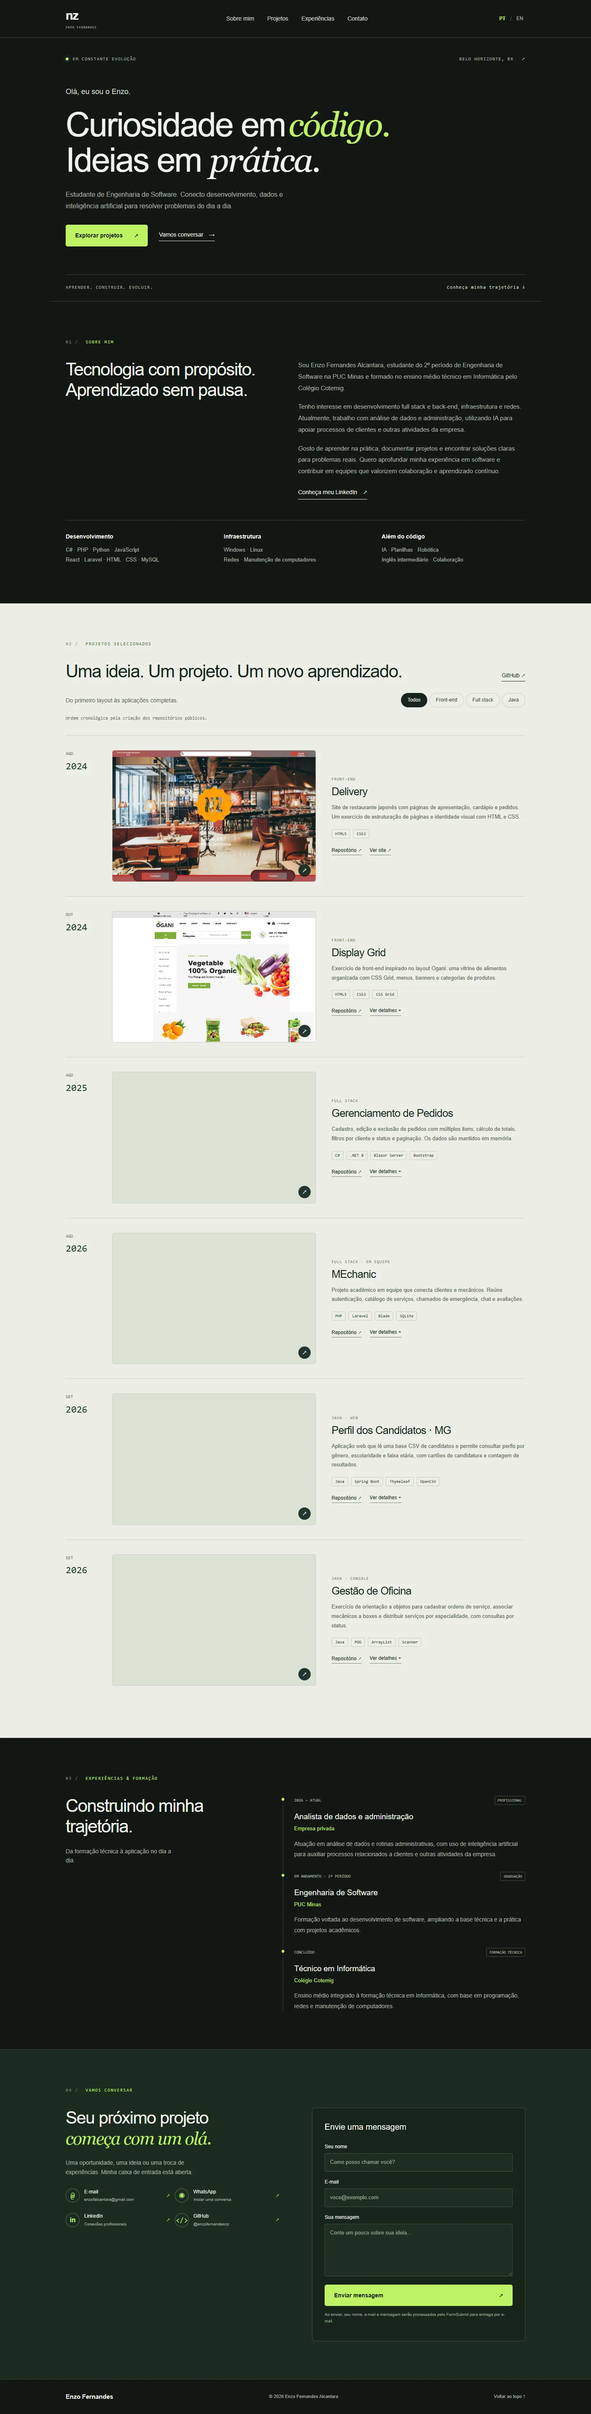
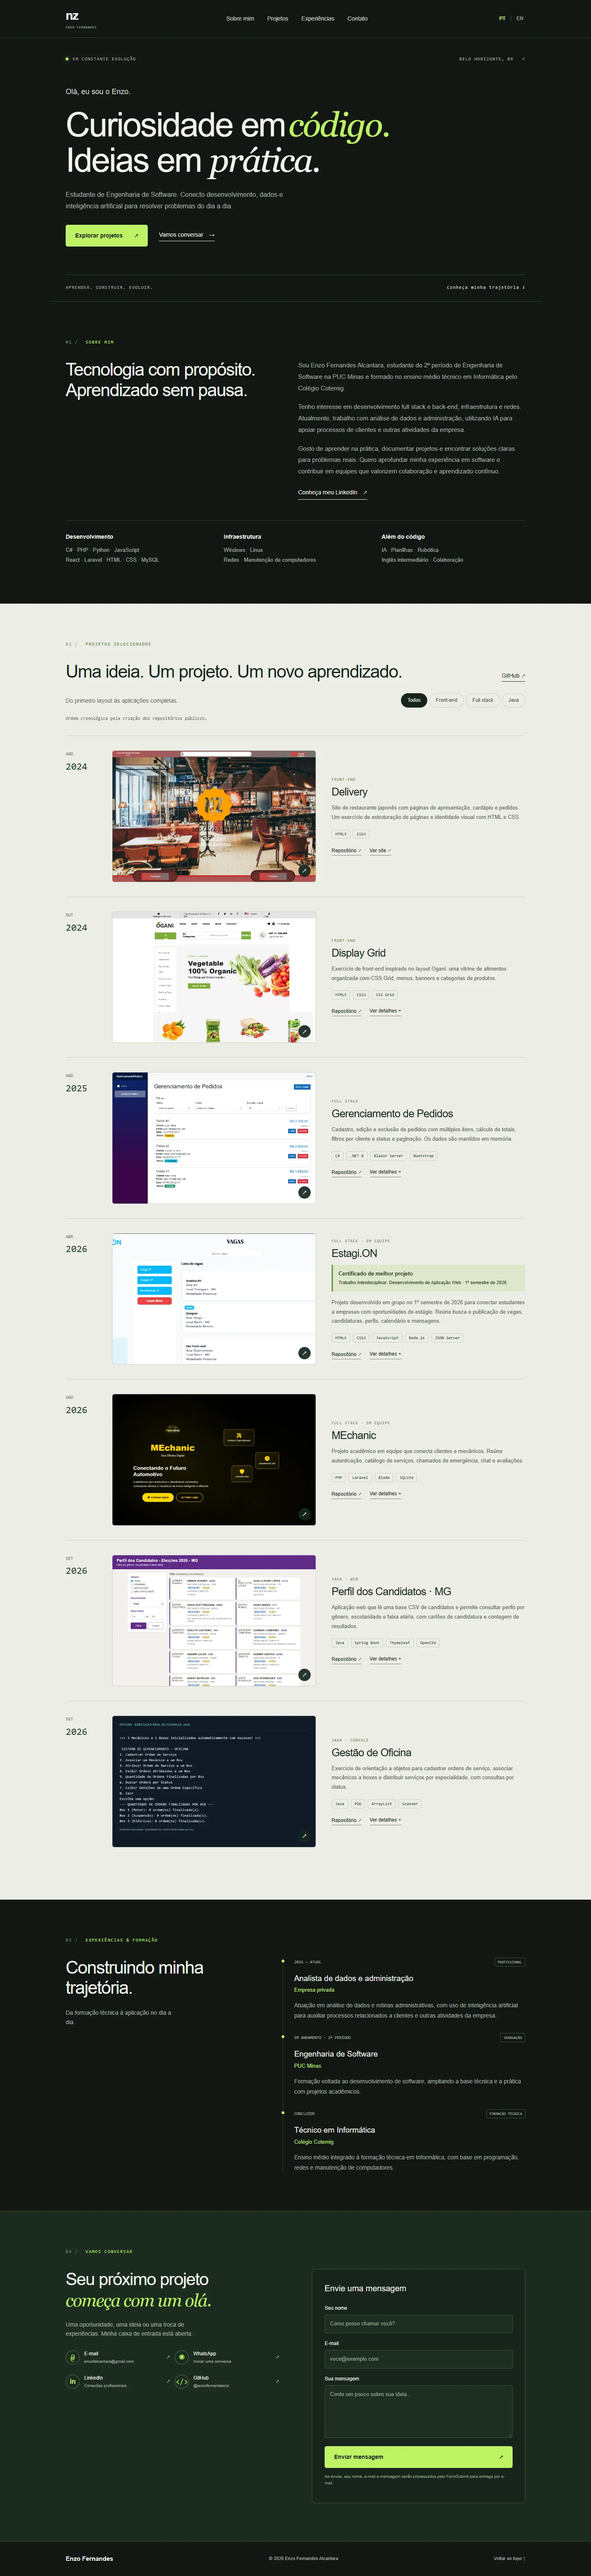
feat: adicionar Estagi.ON e destaque de melhor projeto interdisciplinar

diff --git a/dist/app.js b/dist/app.js
@@ -1,4 +1,5 @@
 const projects = [
+  {"id": "estagi-on", "date": "2026-04-09", "name": "Estagi.ON", "category": "fullstack", "team": true, "tags": ["HTML5", "CSS3", "JavaScript", "Node.js", "JSON Server"], "image": "assets/estagi-on.png", "repo": "https://github.com/ICEI-PUC-Minas-PMGES-TI/pmg-es-2026-1-ti1-0427200-estagi-on", "pt": "Projeto desenvolvido em grupo no 1º semestre de 2026 para conectar estudantes a empresas com oportunidades de estágio. Reúne busca e publicação de vagas, candidaturas, perfis, calendário e mensagens.", "en": "A team project developed in the first semester of 2026 to connect students with companies offering internships. Includes job search and posting, applications, profiles, a calendar and messaging.", "awardPT": "Certificado de melhor projeto", "awardEN": "Best Project Certificate", "awardDetailPT": "Trabalho Interdisciplinar: Desenvolvimento de Aplicação Web · 1º semestre de 2026", "awardDetailEN": "Interdisciplinary Project: Web Application Development · First semester of 2026", "captionPT": "Tela de busca e listagem de vagas do Estagi.ON, publicada na documentação original da equipe. Projeto acadêmico em grupo.", "captionEN": "Estagi.ON job search and listing screen, published in the team’s original documentation. Academic team project."},
   {id:'delivery',date:'2024-08-13',name:'Delivery',category:'frontend',tags:['HTML5','CSS3'],image:'assets/delivery.webp',repo:'https://github.com/enzofernandesnz/delivery',demo:'https://enzofernandesnz.github.io/delivery/',pt:'Site de restaurante japonês com páginas de apresentação, cardápio e pedidos. Um exercício de estruturação de páginas e identidade visual com HTML e CSS.',en:'A Japanese restaurant website with presentation, menu and order pages. An exercise in page structure and visual identity using HTML and CSS.',captionPT:'Captura real da página inicial do projeto Delivery.',captionEN:'Actual screenshot of the Delivery home page.'},
   {id:'grid',date:'2024-10-28',name:'Display Grid',category:'frontend',tags:['HTML5','CSS3','CSS Grid'],image:'assets/display-grid.webp',repo:'https://github.com/enzofernandesnz/Display-grid',pt:'Exercício de front-end inspirado no layout Ogani: uma vitrine de alimentos organizada com CSS Grid, menus, banners e categorias de produtos.',en:'A front-end exercise inspired by the Ogani layout: a food storefront organized with CSS Grid, navigation, banners and product categories.',captionPT:'Captura do HTML original executado localmente. Exercício inspirado no template Ogani.',captionEN:'Screenshot of the original HTML running locally. Exercise inspired by the Ogani template.'},
   {id:'mechanic',date:'2026-08-06',name:'MEchanic',category:'fullstack',tags:['PHP','Laravel','Blade','SQLite'],image:'assets/mechanic.webp',repo:'https://github.com/enzofernandesnz/MEchanic-dev',pt:'Projeto acadêmico em equipe que conecta clientes e mecânicos. Reúne autenticação, catálogo de serviços, chamados de emergência, chat e avaliações.',en:'A team academic project connecting customers and mechanics. It includes authentication, a service catalog, emergency requests, chat and reviews.',captionPT:'Captura real da página inicial do MEchanic, executado localmente em PHP e Laravel.',captionEN:'Actual screenshot of MEchanic running locally with PHP and Laravel.'}
@@ -17,7 +18,8 @@ function renderProjects(){
     const article=document.createElement('article');article.className='project';
     const date=new Date(project.date+'T12:00:00');
     const month=date.toLocaleDateString(language==='pt'?'pt-BR':'en-US',{month:'short'}).replace('.','').toUpperCase();
-    article.innerHTML=`<time class="project-date" datetime="${project.date}">${month}<strong>${date.getFullYear()}</strong></time><button type="button" class="project-visual ${project.isLogo?'mechanic-visual':''}" aria-label="${text('Ampliar imagem de','Enlarge image of')} ${project.name}"><img src="${project.image}" alt="${project.isLogo?text('Logotipo do projeto MEchanic','MEchanic project logo'):text('Captura da interface de ','Screenshot of ')+project.name}" loading="lazy" width="800" height="520">${project.isLogo?`<small>${text('PROJETO ACADÊMICO EM EQUIPE','TEAM ACADEMIC PROJECT')}</small>`:''}<span class="zoom-label" aria-hidden="true">↗</span></button><div class="project-info"><div class="project-kind">${project.category==='frontend'?'FRONT-END':(project.id==='mechanic'?'FULL STACK · '+text('EM EQUIPE','TEAM PROJECT'):'FULL STACK')}</div><h3>${project.name}</h3><p>${project[language]}</p><div class="tags">${project.tags.map(tag=>`<span>${tag}</span>`).join('')}</div><div class="project-links"><a href="${project.repo}" target="_blank" rel="noopener noreferrer">${text('Repositório','Repository')} ↗</a>${project.demo?`<a href="${project.demo}" target="_blank" rel="noopener noreferrer">${text('Ver site','Live site')} ↗</a>`:`<button type="button" class="details">${text('Ver detalhes','View details')} +</button>`}</div></div>`;
+    article.innerHTML=`<time class="project-date" datetime="${project.date}">${month}<strong>${date.getFullYear()}</strong></time><button type="button" class="project-visual ${project.isLogo?'mechanic-visual':''}" aria-label="${text('Ampliar imagem de','Enlarge image of')} ${project.name}"><img src="${project.image}" alt="${project.isLogo?text('Logotipo do projeto MEchanic','MEchanic project logo'):text('Captura da interface de ','Screenshot of ')+project.name}" loading="lazy" width="800" height="520">${project.isLogo?`<small>${text('PROJETO ACADÊMICO EM EQUIPE','TEAM ACADEMIC PROJECT')}</small>`:''}<span class="zoom-label" aria-hidden="true">↗</span></button><div class="project-info"><div class="project-kind">${project.category==='frontend'?'FRONT-END':((project.team||project.id==='mechanic')?'FULL STACK · '+text('EM EQUIPE','TEAM PROJECT'):'FULL STACK')}</div><h3>${project.name}</h3><p>${project[language]}</p><div class="tags">${project.tags.map(tag=>`<span>${tag}</span>`).join('')}</div><div class="project-links"><a href="${project.repo}" target="_blank" rel="noopener noreferrer">${text('Repositório','Repository')} ↗</a>${project.demo?`<a href="${project.demo}" target="_blank" rel="noopener noreferrer">${text('Ver site','Live site')} ↗</a>`:`<button type="button" class="details">${text('Ver detalhes','View details')} +</button>`}</div></div>`;
+    if(project.awardPT){const award=document.createElement('div');award.className='project-award';const heading=document.createElement('strong');heading.textContent=text(project.awardPT,project.awardEN);const detail=document.createElement('span');detail.textContent=text(project.awardDetailPT,project.awardDetailEN);award.append(heading,detail);article.querySelector('.project-info h3').after(award);}
     if(!project.image){const visual=article.querySelector('.project-visual');visual.className='project-visual code-visual';visual.replaceChildren();const code=document.createElement('span');code.className='code-symbol';code.textContent=project.tags[0];const label=document.createElement('span');label.textContent=project.tags.slice(1).join(' / ');const hint=document.createElement('small');hint.textContent=text('EXPLORAR O PROJETO ↗','EXPLORE THE PROJECT ↗');visual.append(code,label,hint);visual.setAttribute('aria-label',text('Ver detalhes de ','View details of ')+project.name);}
     if(project.category==='java')article.querySelector('.project-kind').textContent=project.id==='oficina'?text('JAVA · CONSOLE','JAVA · CONSOLE'):'JAVA · WEB';
     article.querySelector('.project-visual').addEventListener('click',()=>openProject(project));

diff --git a/dist/style.css b/dist/style.css
@@ -11,3 +11,5 @@
 .brand-name{font-size:18px;letter-spacing:-.6px;font-weight:700;line-height:1.2}.brand-name span{display:block;font:8px Consolas,monospace;letter-spacing:1.2px;color:var(--muted);margin-top:6px}.footer-name{font-size:15px;font-weight:600}.hero-grid{grid-template-columns:1fr;padding-block:56px 68px}.hero h1{font-size:clamp(48px,6vw,82px);max-width:1000px}.hero h1 br:nth-of-type(1){display:none}.hero h1>.serif{font-size:1em}.hero-description{max-width:610px}.hero-copy .intro{margin-bottom:24px}@media(max-width:720px){.brand-name{font-size:16px}.brand-name span{font-size:7px;letter-spacing:.7px}.hero-grid{padding-block:38px}.hero h1{font-size:clamp(42px,9vw,60px)}.hero h1 br:nth-of-type(1){display:block}.footer-name{font-size:12px}}
 
 .brand-name{font-size:30px;font-weight:700;letter-spacing:-1.5px}.brand-name span{font-size:8px;letter-spacing:1px}.hero h1 .serif{margin-left:.1em}
+
+.project-award{display:grid;gap:4px;margin:12px 0 16px;padding:12px 14px;border-left:3px solid #698b36;background:#dde7cb;border-radius:0 6px 6px 0;color:#23351d}.project-award strong{font-size:13px;line-height:1.5}.project-award span{font-size:11px;line-height:1.6}

diff --git a/README.md b/README.md
@@ -190,11 +190,14 @@ Capturas completas: [Desktop](docs/desktop.webp) · [Celular](docs/mobile.webp).
 | 13/08/2024 | Delivery | HTML, CSS | [Repositório](https://github.com/enzofernandesnz/delivery) |
 | 28/10/2024 | Display Grid | HTML, CSS Grid | [Repositório](https://github.com/enzofernandesnz/Display-grid) |
 | 08/08/2025 | Gerenciamento de Pedidos | C#, .NET 8, Blazor Server, Bootstrap | [Repositório](https://github.com/enzofernandesnz/atv6_blazor) |
+| 09/04/2026 | Estagi.ON | HTML, CSS, JavaScript, Node.js, JSON Server | [Repositório](https://github.com/ICEI-PUC-Minas-PMGES-TI/pmg-es-2026-1-ti1-0427200-estagi-on) |
 | 06/08/2026 | MEchanic | PHP, Laravel, Blade, SQLite | [Repositório](https://github.com/enzofernandesnz/MEchanic-dev) |
 | 28/09/2026 | Perfil dos Candidatos — MG | Java, Spring Boot, Thymeleaf, OpenCSV | [Repositório](https://github.com/enzofernandesnz/Projeto-Candidatos-TSE-2) |
 | 28/09/2026 | Gestão de Oficina | Java, POO, ArrayList, Scanner | [Repositório](https://github.com/enzofernandesnz/prova1) |
 
-As descrições foram conferidas no código dos repositórios públicos. MEchanic é explicitamente apresentado como projeto em equipe. Display Grid é um exercício inspirado no layout Ogani. Repositórios de templates copiados por fork não foram apresentados como projetos próprios.
+As descrições foram conferidas no código dos repositórios públicos. Estagi.ON e MEchanic são explicitamente apresentados como projetos em equipe. Display Grid é um exercício inspirado no layout Ogani. Repositórios de templates copiados por fork não foram apresentados como projetos próprios.
+
+O Estagi.ON foi desenvolvido em grupo no 1º semestre de 2026. Enzo recebeu o certificado de melhor projeto de **Trabalho Interdisciplinar: Desenvolvimento de Aplicação Web**, conforme seu relato. A imagem do cartão é a [captura de listagem de vagas da documentação da equipe](https://github.com/ICEI-PUC-Minas-PMGES-TI/pmg-es-2026-1-ti1-0427200-estagi-on/blob/master/docs/images/funcionalidades/Listagem_de_vagas.png).
 
 Formação e contatos vêm do currículo fornecido por Enzo. A experiência como analista de dados e administração, o uso de IA e a preferência por manter a empresa anônima foram informados diretamente pelo autor. O período `2026 – atual` evita inventar um dia exato de admissão.
 

diff --git a/ENTREGA.md b/ENTREGA.md
@@ -16,14 +16,16 @@
 | Etapa | Material |
 |---|---|
 | Sprint 01 — 4 pontos | Requisitos, wireframes editáveis, estrutura do site, navegação e README |
-| Sprint 02 — 4 pontos | PT/EN, seis projetos, timeline, filtros, experiências, contatos e formulário com validações |
+| Sprint 02 — 4 pontos | PT/EN, sete projetos, timeline, filtros, experiências, contatos e formulário com validações |
 | Sprint 03 — 7 pontos | Versão para nuvem, imagens reais, layout responsivo, README final e roteiro de apresentação |
 
 O código está na pasta `dist`. Para executar localmente, abra um terminal na raiz `portfolio-enzo` e use `npm start`.
 
 ## Verificação técnica
 
-Conferidos no navegador: seis projetos, filtros, alternância PT/EN, modal, validação do formulário, menu móvel e ausência de rolagem horizontal em 320, 390, 768 e 1440 pixels. Nenhum erro JavaScript foi encontrado no fluxo testado.
+Conferidos no navegador: sete projetos, filtros, alternância PT/EN, modal, validação do formulário, menu móvel e ausência de rolagem horizontal em 320, 390, 768 e 1440 pixels. Nenhum erro JavaScript foi encontrado no fluxo testado.
+
+A imagem do Estagi.ON vem da documentação original da equipe e mostra a listagem de vagas. O cartão destaca o projeto em grupo do 1º semestre de 2026 e o certificado de melhor projeto de Trabalho Interdisciplinar: Desenvolvimento de Aplicação Web, informado por Enzo.
 
 As imagens de Delivery e Display Grid mostram os arquivos HTML originais executados localmente. Blazor e MEchanic foram compilados/executados em ambientes locais isolados. O projeto TSE usa seu CSV original; as fotos ausentes de candidatos são uma limitação do repositório original. O projeto Oficina usa saída real de console, sem interface gráfica inventada.
 

diff --git a/docs/APRESENTACAO.md b/docs/APRESENTACAO.md
@@ -22,7 +22,7 @@ Mostre a organização das pastas no README. Diferencie o servidor Node.js usado
 
 1. Troque de português para inglês e retorne.
 2. Abra Projetos e explique que a ordem usa a data de criação dos repositórios.
-3. Demonstre os filtros e abra um repositório.
+3. Demonstre os filtros e abra um repositório. Destaque o Estagi.ON, desenvolvido em grupo no 1º semestre de 2026, e o certificado de melhor projeto de Trabalho Interdisciplinar: Desenvolvimento de Aplicação Web.
 4. Amplie uma imagem real de um projeto.
 5. Mostre sua experiência como analista de dados e administração, com uso de IA em processos da empresa.
 6. Reduza a largura da janela e use o menu móvel.
@@ -46,4 +46,4 @@ Comente o que você compreendeu sobre separar conteúdo, apresentação e compor
 
 **Como o site funciona no celular?** CSS Grid/Flexbox e media queries reorganizam o conteúdo em uma coluna e habilitam o menu compacto.
 
-**As imagens são simulações?** As imagens incluídas como capturas foram obtidas dos projetos executados localmente. Blocos tipográficos de projetos sem captura não são apresentados como screenshots.
+**As imagens são simulações?** A captura do Estagi.ON vem da documentação original da equipe. As demais capturas foram obtidas dos projetos executados localmente. Blocos tipográficos de projetos sem captura não são apresentados como screenshots.
